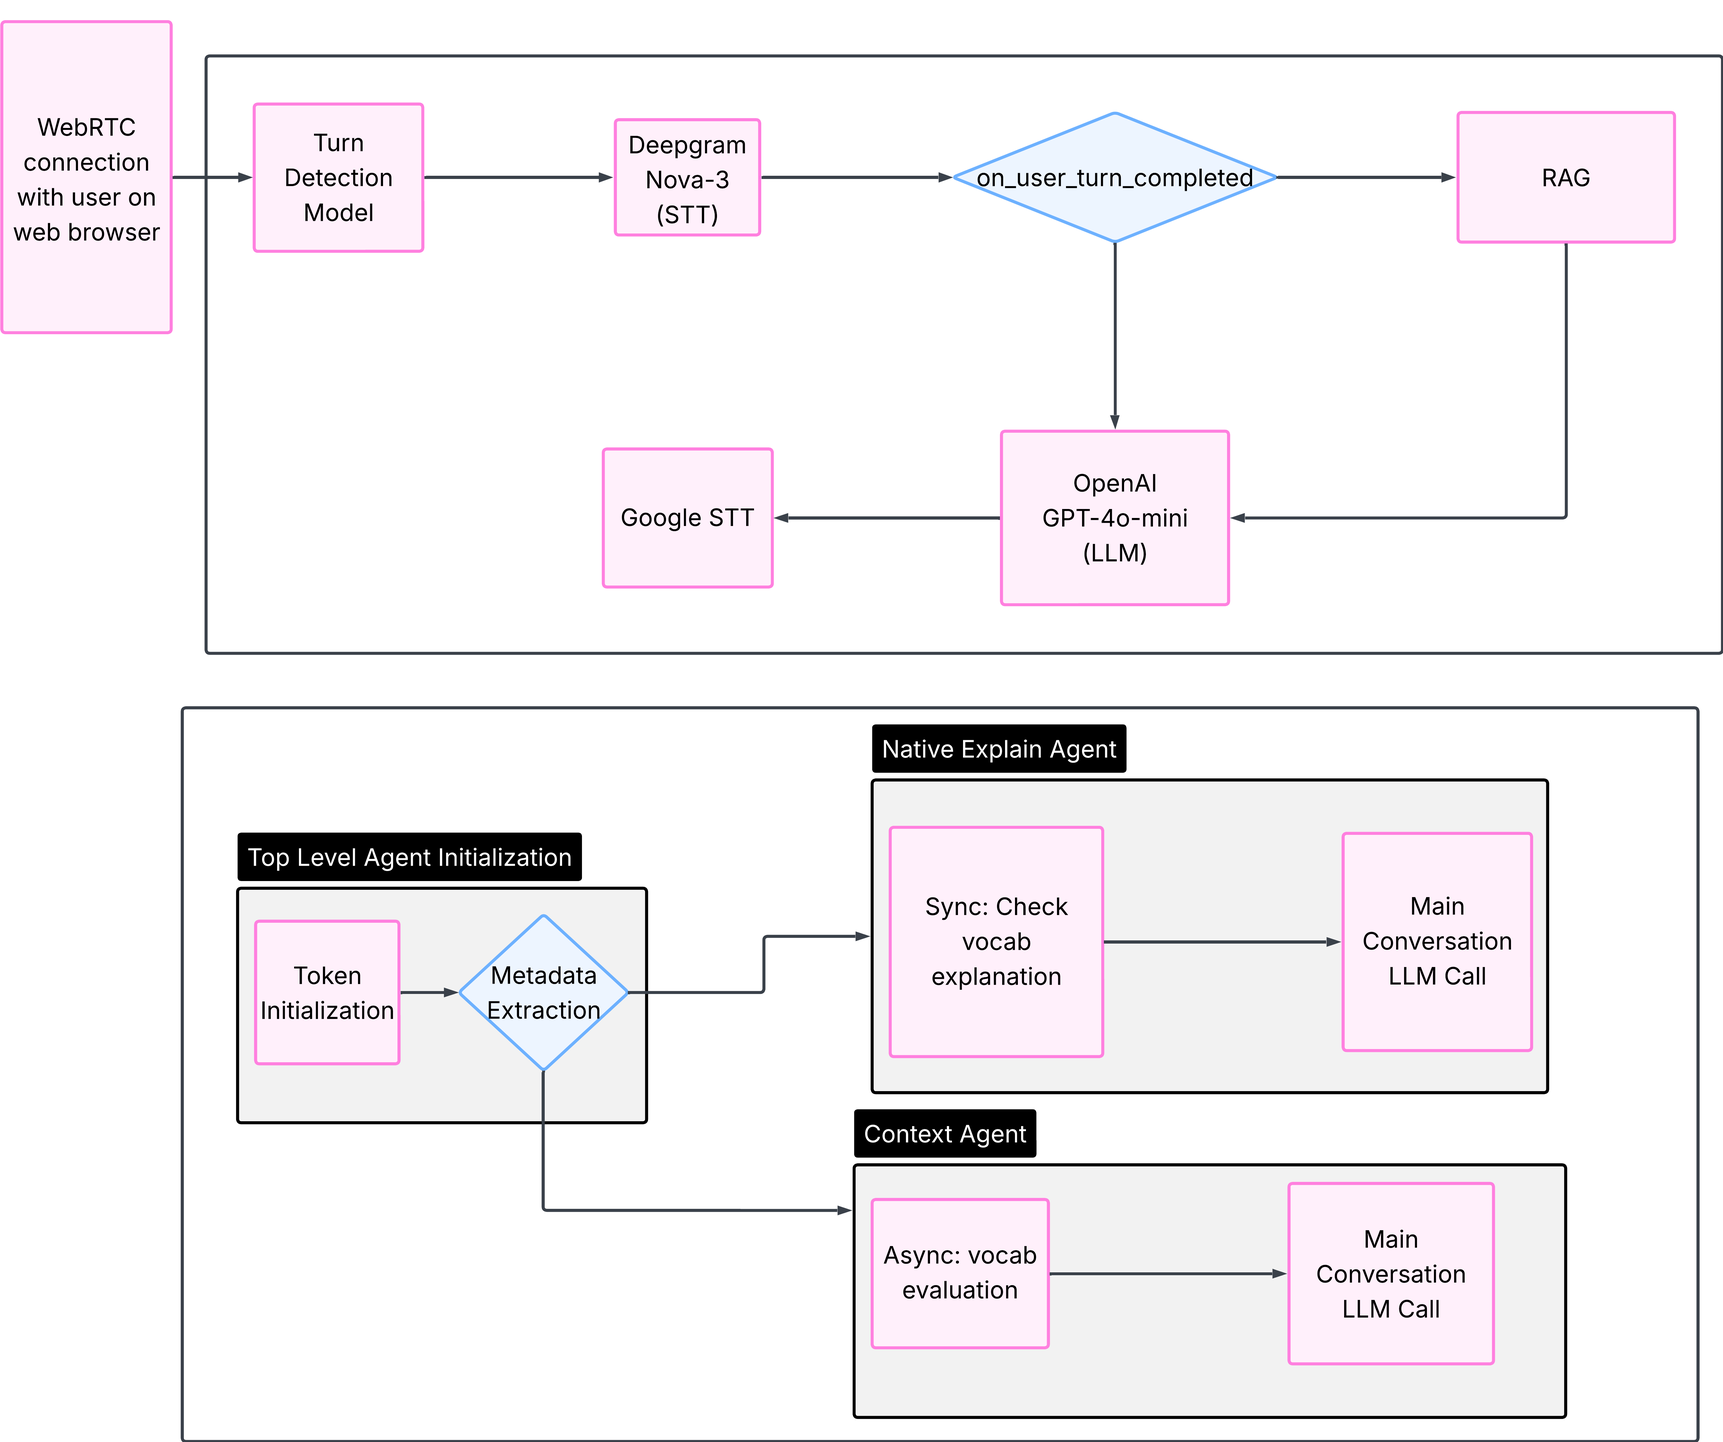
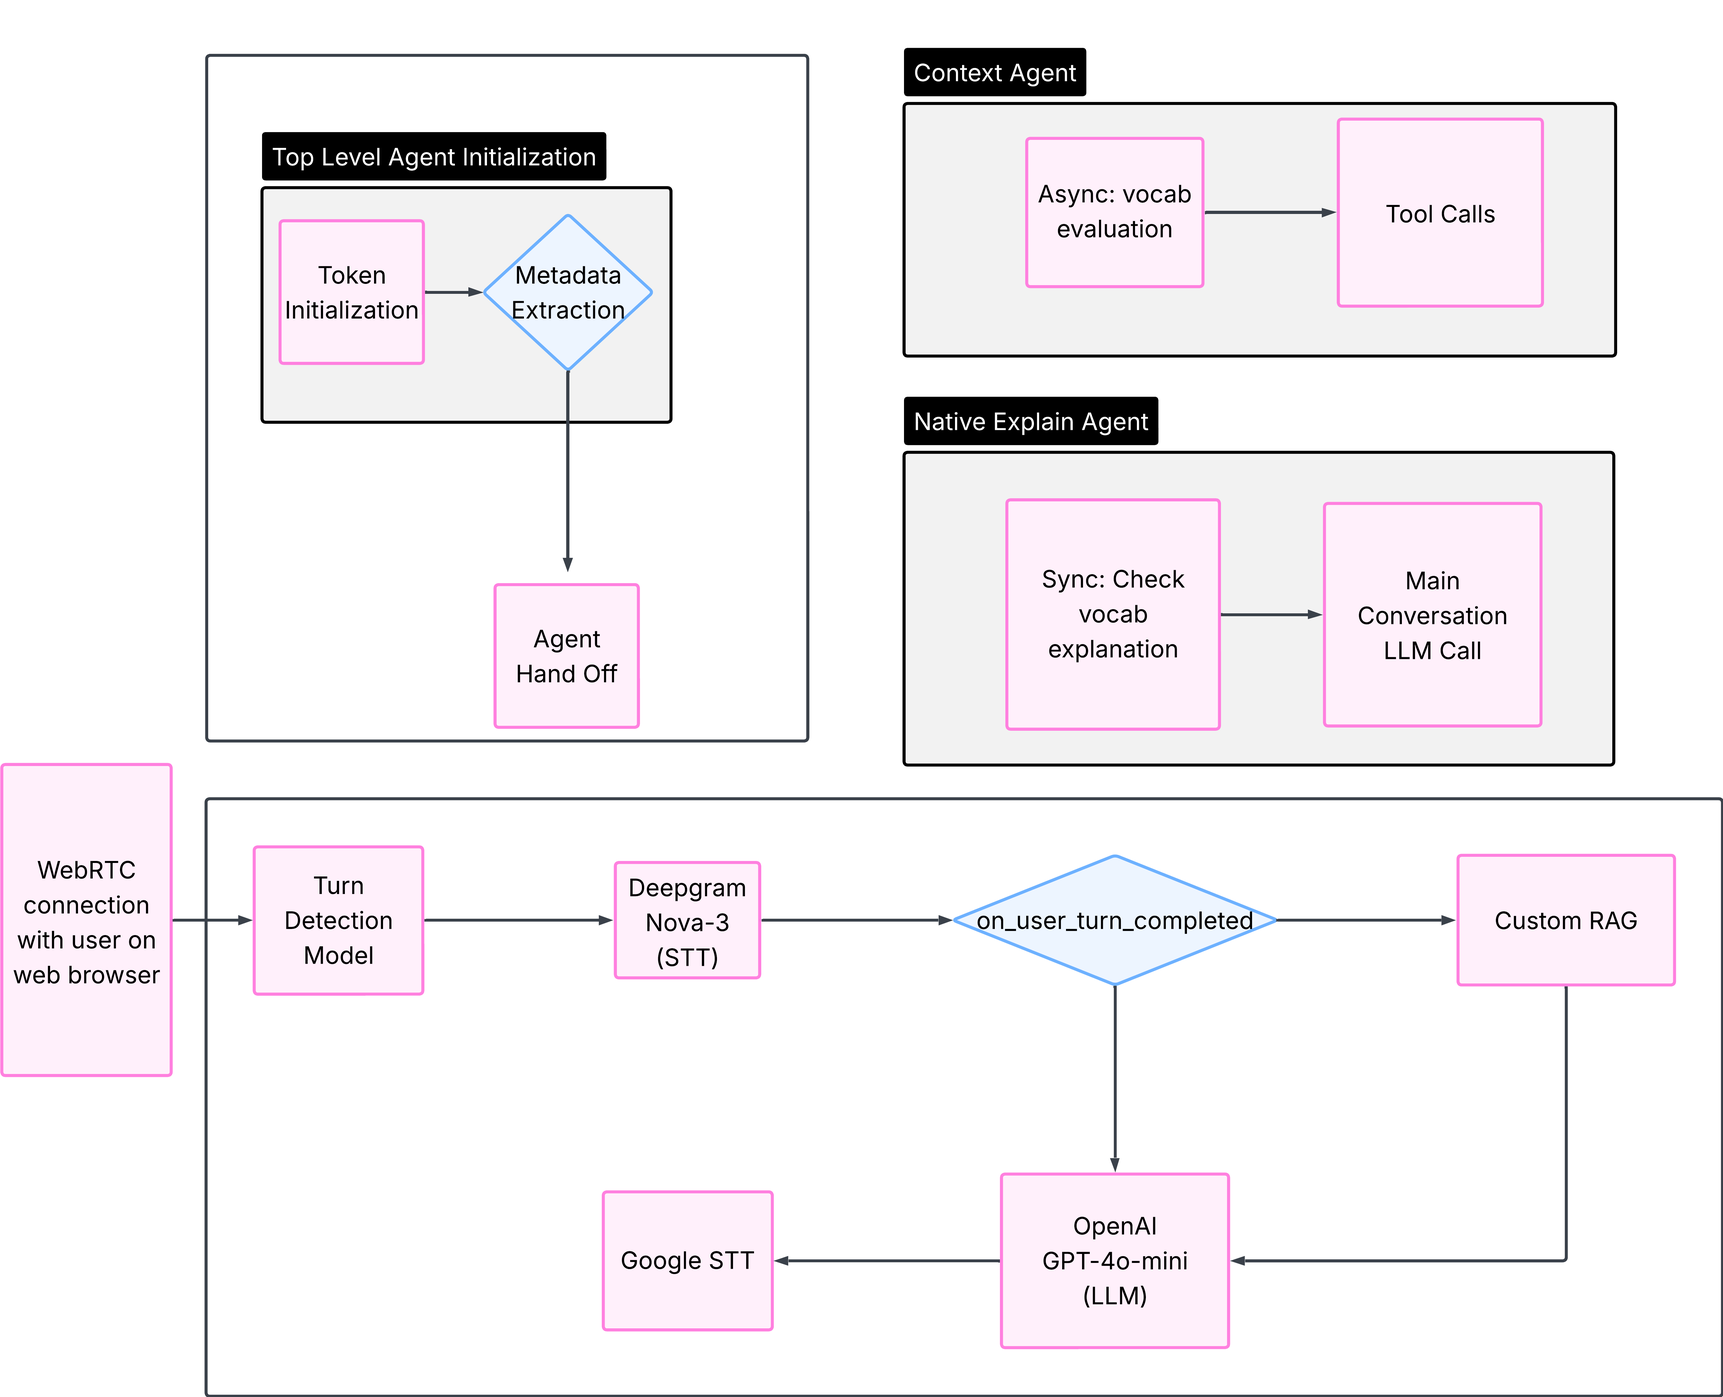
wip

diff --git a/app/app/slides/page.tsx b/app/app/slides/page.tsx
@@ -188,7 +188,32 @@ export default function SlidesPage() {
         {/* System Architecture - Title Slide */}
         <section data-background-gradient="linear-gradient(135deg, hsl(280, 65%, 45%) 0%, hsl(200, 85%, 45%) 100%)">
           <h2 style={{fontSize: '4rem', fontWeight: 'bold', color: 'white', textShadow: '2px 2px 4px rgba(0,0,0,0.8)', marginBottom: '2rem'}}>System Architecture</h2>
-          <p style={{fontSize: '1.5rem', color: 'white', textShadow: '1px 1px 2px rgba(0,0,0,0.6)'}}>Technical Deep Dive into VoiceCard AI</p>
+          <p style={{fontSize: '1.5rem', color: 'white', textShadow: '1px 1px 2px rgba(0,0,0,0.6)'}}>Technical Deep Dive into VoiceCard</p>
+        </section>
+
+        {/* Agent Architecture */}
+        <section>
+          <h2 style={{fontSize: '3rem', fontWeight: 'bold', color: '#1e3a8a', textShadow: 'none', marginBottom: '3rem'}}>Agent Architecture</h2>
+          
+          <div style={{display: 'grid', gridTemplateColumns: '1fr 1fr', gap: '3rem', maxWidth: '1100px', margin: '0 auto', height: 'calc(100vh - 200px)', alignItems: 'center'}}>
+            <div style={{backgroundColor: '#dc2626', color: 'white', padding: '2.5rem', borderRadius: '12px', boxShadow: '0 8px 32px rgba(0,0,0,0.3)', height: '300px', display: 'flex', flexDirection: 'column'}}>
+              <h3 style={{fontSize: '1.8rem', fontWeight: 'bold', marginBottom: '2rem', color: '#fef3c7'}}>🎯 Native Explain Agent</h3>
+              <div style={{fontSize: '1.1rem', lineHeight: '1.7', flex: '1'}}>
+                <div style={{marginBottom: '0.8rem'}}>• Asks user to explain target word</div>
+                <div style={{marginBottom: '0.8rem'}}>• Records user&apos;s explanation</div>
+                <div>• Runs RAG evaluation synchronously</div>
+              </div>
+            </div>
+
+            <div style={{backgroundColor: '#0891b2', color: 'white', padding: '2.5rem', borderRadius: '12px', boxShadow: '0 8px 32px rgba(0,0,0,0.3)', height: '300px', display: 'flex', flexDirection: 'column'}}>
+              <h3 style={{fontSize: '1.8rem', fontWeight: 'bold', marginBottom: '2rem', color: '#fef3c7'}}>🔄 Context Agent</h3>
+              <div style={{fontSize: '1.1rem', lineHeight: '1.7', flex: '1'}}>
+                <div style={{marginBottom: '0.8rem'}}>• Prompts user for word usage</div>
+                <div style={{marginBottom: '0.8rem'}}>• Runs RAG evaluation asynchronously</div>
+                <div>• Continues conversation flow</div>
+              </div>
+            </div>
+          </div>
         </section>
 
         {/* Application Architecture */}
@@ -245,35 +270,6 @@ export default function SlidesPage() {
           </div>
         </section>
 
-        {/* LiveKit Architecture */}
-        <section>
-          <h2 style={{fontSize: '3rem', fontWeight: 'bold', color: '#1e3a8a', textShadow: 'none', marginBottom: '3rem'}}>LiveKit Architecture</h2>
-          
-          <div style={{display: 'grid', gridTemplateColumns: '1fr 1fr', gap: '2rem', maxWidth: '1200px', margin: '0 auto'}}>
-            <div style={{backgroundColor: '#1e40af', color: 'white', padding: '2rem', borderRadius: '12px', boxShadow: '0 8px 32px rgba(0,0,0,0.3)'}}>
-              <h3 style={{fontSize: '1.5rem', fontWeight: 'bold', marginBottom: '1.5rem', color: '#fbbf24'}}>🎙 Real-time Communication</h3>
-              <div style={{fontSize: '1.1rem', lineHeight: '1.6'}}>
-                <div style={{marginBottom: '0.5rem'}}>• WebRTC-based voice streaming</div>
-                <div style={{marginBottom: '0.5rem'}}>• Low-latency bidirectional audio</div>
-                <div style={{marginBottom: '0.5rem'}}>• Room-based session management</div>
-                <div style={{marginBottom: '0.5rem'}}>• Automatic connection recovery</div>
-                <div>• Cross-platform compatibility</div>
-              </div>
-            </div>
-
-            <div style={{backgroundColor: '#16a34a', color: 'white', padding: '2rem', borderRadius: '12px', boxShadow: '0 8px 32px rgba(0,0,0,0.3)'}}>
-              <h3 style={{fontSize: '1.5rem', fontWeight: 'bold', marginBottom: '1.5rem', color: '#fef3c7'}}>🔧 LiveKit Components</h3>
-              <div style={{fontSize: '1.1rem', lineHeight: '1.6'}}>
-                <div style={{marginBottom: '0.5rem'}}>• LiveKit Server (SFU)</div>
-                <div style={{marginBottom: '0.5rem'}}>• React SDK integration</div>
-                <div style={{marginBottom: '0.5rem'}}>• Python Agent framework</div>
-                <div style={{marginBottom: '0.5rem'}}>• Token-based authentication</div>
-                <div>• Room metadata for context</div>
-              </div>
-            </div>
-          </div>
-        </section>
-
         {/* LiveKit Flow Diagram */}
         <section>
           <h2 style={{fontSize: '3rem', fontWeight: 'bold', color: '#1e3a8a', textShadow: 'none', marginBottom: '2.5rem'}}>LiveKit Flow Diagram</h2>
@@ -297,89 +293,29 @@ export default function SlidesPage() {
           </div>
         </section>
 
-        {/* Agent Architecture */}
-        <section>
-          <h2 style={{fontSize: '3rem', fontWeight: 'bold', color: '#1e3a8a', textShadow: 'none', marginBottom: '3rem'}}>Agent Architecture</h2>
-          
-          <div style={{display: 'grid', gridTemplateColumns: '1fr 1fr', gap: '3rem', maxWidth: '1100px', margin: '0 auto', height: 'calc(100vh - 200px)', alignItems: 'center'}}>
-            <div style={{backgroundColor: '#dc2626', color: 'white', padding: '2.5rem', borderRadius: '12px', boxShadow: '0 8px 32px rgba(0,0,0,0.3)', height: '300px', display: 'flex', flexDirection: 'column'}}>
-              <h3 style={{fontSize: '1.8rem', fontWeight: 'bold', marginBottom: '2rem', color: '#fef3c7'}}>🎯 Native Explain Agent</h3>
-              <div style={{fontSize: '1.1rem', lineHeight: '1.7', flex: '1'}}>
-                <div style={{marginBottom: '0.8rem'}}>• Asks user to explain target word</div>
-                <div style={{marginBottom: '0.8rem'}}>• Records user&apos;s explanation</div>
-                <div>• Runs RAG evaluation synchronously</div>
-              </div>
-            </div>
-
-            <div style={{backgroundColor: '#0891b2', color: 'white', padding: '2.5rem', borderRadius: '12px', boxShadow: '0 8px 32px rgba(0,0,0,0.3)', height: '300px', display: 'flex', flexDirection: 'column'}}>
-              <h3 style={{fontSize: '1.8rem', fontWeight: 'bold', marginBottom: '2rem', color: '#fef3c7'}}>🔄 Context Agent</h3>
-              <div style={{fontSize: '1.1rem', lineHeight: '1.7', flex: '1'}}>
-                <div style={{marginBottom: '0.8rem'}}>• Prompts user for word usage</div>
-                <div style={{marginBottom: '0.8rem'}}>• Runs RAG evaluation asynchronously</div>
-                <div>• Continues conversation flow</div>
-              </div>
-            </div>
-          </div>
-        </section>
-
-        {/* Agent Architecture Diagram */}
-        <section>
-          <h2 style={{fontSize: '3rem', fontWeight: 'bold', color: '#1e3a8a', textShadow: 'none', marginBottom: '3rem'}}>Agent Architecture Diagram</h2>
-        </section>
-
         {/* Comprehensive Conclusion */}
         <section data-background-gradient="linear-gradient(135deg, hsl(145, 65%, 45%) 0%, hsl(200, 85%, 45%) 100%)">
-          <h2 style={{fontSize: '3rem', fontWeight: 'bold', color: '#1e3a8a', textShadow: 'none', marginBottom: '3rem'}}>VoiceCard: The Future of L2 Spaced Repetition</h2>
+          <h2 style={{fontSize: '3rem', fontWeight: 'bold', color: 'white', textShadow: '2px 2px 4px rgba(0,0,0,0.8)', marginBottom: '3rem'}}>VoiceCard: Making Flashcards Fun Again</h2>
           
-          <div style={{display: 'grid', gridTemplateColumns: '1fr 1fr', gap: '2rem', maxWidth: '1100px', margin: '0 auto'}}>
+          <div style={{display: 'grid', gridTemplateColumns: '1fr 1fr', gap: '3rem', maxWidth: '1000px', margin: '0 auto'}}>
             
-            {/* Market Opportunity */}
-            <div style={{backgroundColor: 'rgba(30, 64, 175, 0.9)', color: 'white', padding: '2rem', borderRadius: '12px', boxShadow: '0 8px 32px rgba(0,0,0,0.4)'}}>
-              <h3 style={{fontSize: '1.5rem', fontWeight: 'bold', marginBottom: '1.5rem', color: '#fbbf24'}}>🌎 Market Opportunity</h3>
-              <div style={{fontSize: '1.1rem', lineHeight: '1.6'}}>
-                <div style={{marginBottom: '0.8rem', display: 'flex', alignItems: 'center'}}>
-                  <span style={{fontSize: '1.8rem', fontWeight: 'bold', color: '#34d399', marginRight: '0.5rem'}}>559M</span>
-                  Spanish speakers worldwide
-                </div>
-                <div style={{marginBottom: '0.8rem', display: 'flex', alignItems: 'center'}}>
-                  <span style={{fontSize: '1.8rem', fontWeight: 'bold', color: '#34d399', marginRight: '0.5rem'}}>$60B</span>
-                  language learning market
-                </div>
-                <div style={{marginBottom: '0.8rem'}}>• Nearshoring boom creating demand</div>
-                <div>• English fluency = career advancement</div>
+            {/* The SRS Problem */}
+            <div style={{backgroundColor: 'rgba(220, 38, 38, 0.9)', color: 'white', padding: '3rem', borderRadius: '12px', boxShadow: '0 8px 32px rgba(0,0,0,0.4)'}}>
+              <h3 style={{fontSize: '2rem', fontWeight: 'bold', marginBottom: '2rem', color: '#fef3c7'}}>😴 The SRS Problem</h3>
+              <div style={{fontSize: '1.3rem', lineHeight: '1.7'}}>
+                <div style={{marginBottom: '1rem'}}>• <strong>Anki, Quizlet, WaniKani:</strong> Effective systems</div>
+                <div style={{marginBottom: '1rem'}}>• Text-only flashcards feel like homework</div>
+                <div>• No speaking practice or conversation</div>
               </div>
             </div>
 
-            {/* Unique Solution */}
-            <div style={{backgroundColor: 'rgba(124, 58, 237, 0.9)', color: 'white', padding: '2rem', borderRadius: '12px', boxShadow: '0 8px 32px rgba(0,0,0,0.4)'}}>
-              <h3 style={{fontSize: '1.5rem', fontWeight: 'bold', marginBottom: '1.5rem', color: '#fbbf24'}}>🎯 Unique Solution</h3>
-              <div style={{fontSize: '1.1rem', lineHeight: '1.6'}}>
-                <div style={{marginBottom: '0.8rem'}}>• First AI voice agent for Spanish speakers</div>
-                <div style={{marginBottom: '0.8rem'}}>• Phrasal verb mastery through conversation</div>
-                <div style={{marginBottom: '0.8rem'}}>• LiveKit + GPT-4o + SRS technology</div>
-                <div>• Spanish-aware explanations & feedback</div>
-              </div>
-            </div>
-
-            {/* Competitive Advantage */}
-            <div style={{backgroundColor: 'rgba(234, 88, 12, 0.9)', color: 'white', padding: '2rem', borderRadius: '12px', boxShadow: '0 8px 32px rgba(0,0,0,0.4)'}}>
-              <h3 style={{fontSize: '1.5rem', fontWeight: 'bold', marginBottom: '1.5rem', color: '#fef3c7'}}>⚡ Competitive Edge</h3>
-              <div style={{fontSize: '1.1rem', lineHeight: '1.6'}}>
-                <div style={{marginBottom: '0.8rem'}}>• Fills gap left by Duolingo & traditional ESL</div>
-                <div style={{marginBottom: '0.8rem'}}>• Voice-first learning approach</div>
-                <div style={{marginBottom: '0.8rem'}}>• Real-time conversation practice</div>
-                <div>• Underserved but critical market segment</div>
-              </div>
-            </div>
-
-            {/* Expected Impact */}
-            <div style={{backgroundColor: 'rgba(22, 163, 74, 0.9)', color: 'white', padding: '2rem', borderRadius: '12px', boxShadow: '0 8px 32px rgba(0,0,0,0.4)'}}>
-              <h3 style={{fontSize: '1.5rem', fontWeight: 'bold', marginBottom: '1.5rem', color: '#fef3c7'}}>🚀 Expected Impact</h3>
-              <div style={{fontSize: '1.1rem', lineHeight: '1.6'}}>
-                <div style={{marginBottom: '0.8rem'}}>• 60% faster learning through voice practice</div>
-                <div style={{marginBottom: '0.8rem'}}>• Natural conversation confidence</div>
-                <div style={{marginBottom: '0.8rem'}}>• Career advancement for nearshore workers</div>
-                <div>• Scalable platform for language expansion</div>
+            {/* VoiceCard Solution */}
+            <div style={{backgroundColor: 'rgba(124, 58, 237, 0.9)', color: 'white', padding: '3rem', borderRadius: '12px', boxShadow: '0 8px 32px rgba(0,0,0,0.4)'}}>
+              <h3 style={{fontSize: '2rem', fontWeight: 'bold', marginBottom: '2rem', color: '#fbbf24'}}>🎉 VoiceCard Solution</h3>
+              <div style={{fontSize: '1.3rem', lineHeight: '1.7'}}>
+                <div style={{marginBottom: '1rem'}}>• <strong>Same SRS science,</strong> but with conversational AI</div>
+                <div style={{marginBottom: '1rem'}}>• AI voice agents make it engaging & fun</div>
+                <div>• Tailored to different learner profiles & preferences</div>
               </div>
             </div>
           </div>

diff --git a/app/presentation-script.md b/app/presentation-script.md
@@ -1,4 +1,4 @@
-# VoiceCard AI Presentation Script
+# VoiceCard Presentation Script
 
 ## Timing Guide
 - **Total Time**: 12-16 minutes
@@ -59,131 +59,7 @@ Now let me show you VoiceCard AI in action. I'm going to switch to a live screen
 - Spaced repetition algorithm
 - Progress tracking
 
-**Demo Highlights to Mention:**
-- "Notice how the AI explains in Spanish, using familiar concepts"
-- "The system adapts to Spanish-specific pronunciation patterns"  
-- "Watch how it provides immediate, contextual correction"
-- "The spaced repetition ensures long-term retention"
 
-**[RETURN TO SLIDES: 8:00]**
+**Final Message (30 seconds)**
+For Voice Card, I'm not trying to replace spaced repetition, and I'm not trying to create an all encompassing app that promoises to deliver fluency in the shortest amount of time possible. Instead I'm taking a battle tested, science based technique that millions of learners use every day to learn vocabulalry, and trying to make it more engaging with conversational AI.
 
----
-
-## [SLIDE 6: System Architecture] - Technical Overview (8:00)
-
-**Architecture Overview (30 seconds)**
-Now let's look under the hood. VoiceCard AI uses a sophisticated real-time architecture that's the future of L2 spaced repetition.
-
-**[NEXT SLIDE: 8:30]**
-
----
-
-## [SLIDE 7: Application Architecture] - Frontend & API (8:30)
-
-**Application Layer Overview (1 minute)**
-Our application architecture has two main layers. The frontend uses Next.js with React 19 and TypeScript, featuring an App Router for navigation, our Spaced Repetition System, voice card data management, progress tracking and analytics, all with a responsive UI built in Tailwind. The API layer, also in Next.js, handles token generation for LiveKit, room management endpoints, authentication middleware, generated data serving, session state management, and comprehensive error handling and logging.
-
-**[NEXT SLIDE: 9:30]**
-
----
-
-## [SLIDE 8: Application Architecture Diagram] - Visual Overview (9:30)
-
-**Diagram Walkthrough (30 seconds)**
-Here's our complete application architecture diagram showing how all the components work together - from the user interface through the API layer to our real-time communication system.
-
-**[NEXT SLIDE: 10:00]**
-
----
-
-## [SLIDE 9: LiveKit Architecture] - Real-time Communication (10:00)
-
-**LiveKit Components (1 minute)**
-LiveKit powers our real-time communication with WebRTC-based voice streaming, providing low-latency bidirectional audio, room-based session management, automatic connection recovery, and cross-platform compatibility. The components include the LiveKit Server acting as an SFU, React SDK integration, Python Agent framework, token-based authentication, and room metadata for context.
-
-**[NEXT SLIDE: 11:00]**
-
----
-
-## [SLIDE 10: LiveKit Flow Diagram] - Technical Flow (11:00)
-
-**Flow Explanation (30 seconds)**
-This diagram shows exactly how audio flows through our LiveKit architecture, from user input through our AI agents and back to natural speech output.
-
-**[NEXT SLIDE: 11:30]**
-
----
-
-## [SLIDE 11: Agent Architecture] - AI Agents (11:30)
-
-**Agent Overview (1 minute)**
-We have two specialized AI agents. The Native Explain Agent asks users to explain the target word, records their explanation, and runs RAG evaluation synchronously for immediate feedback. The Context Agent prompts users for word usage in context, runs RAG evaluation asynchronously to maintain conversation flow, and continues the natural dialogue. This dual-agent approach ensures both accuracy and conversational fluency.
-
-**[NEXT SLIDE: 12:30]**
-
----
-
-## [SLIDE 12: Agent Architecture Diagram] - Agent Flow (12:30)
-
-**Agent Diagram (30 seconds)**
-This technical diagram shows how our two agents coordinate to create seamless learning experiences.
-
-**[NEXT SLIDE: 13:00]**
-
----
-
-## [SLIDE 13: VoiceCard: The Future of L2 Spaced Repetition] - Conclusion (13:00)
-
-**Comprehensive Impact Summary (2 minutes)**
-Let me bring this all together. We have a massive market opportunity with 559 million Spanish speakers worldwide in a $60 billion language learning market. The nearshoring boom is creating unprecedented demand, and English fluency directly correlates with career advancement.
-
-Our unique solution is the first AI voice agent specifically designed for Spanish speakers, focusing on phrasal verb mastery through conversation. We're combining LiveKit real-time communication, GPT-4o intelligence, and spaced repetition science into a powerful learning platform.
-
-Our competitive advantage is clear - we're filling the gap left by Duolingo and traditional ESL with our voice-first learning approach and real-time conversation practice, targeting an underserved but critical market segment.
-
-The expected impact is transformative: 60% faster learning through voice practice, natural conversation confidence, career advancement for nearshore workers, and a scalable platform ready for language expansion.
-
-**Closing (30 seconds)**
-VoiceCard AI represents the future of language learning - where AI agents become conversation partners, where spaced repetition meets real-time voice interaction, and where Spanish speakers finally have a solution built specifically for their unique challenges.
-
-Thank you. I'm happy to take questions.
-
-**[END: 15:00]**
-
----
-
-## Presentation Tips
-
-### Timing Cues
-- Use your phone or watch to track timing
-- If running long, compress the infrastructure section
-- If running short, add more demo examples
-
-### Slide Transitions
-- Use presenter view to see notes
-- Arrow keys or space bar to advance
-- 'B' key to black out screen during demo
-
-### Demo Backup Plan
-- Have screenshots ready in case of technical issues
-- Practice demo flow multiple times
-- Have test phrasal verb examples prepared
-
-### Q&A Preparation
-**Likely Questions:**
-- "How accurate is the speech recognition for Spanish accents?"
-- "What's your user acquisition strategy?"
-- "How do you plan to monetize?"
-- "What about competition from Duolingo or Babbel?"
-- "How do you measure learning effectiveness?"
-
-**Key Statistics to Remember:**
-- 559M Spanish speakers worldwide
-- 41M Spanish speakers in US
-- 2000+ common phrasal verbs
-- 80% of conversation uses phrasal verbs
-- 15x longer to master than regular verbs
-- 60% learning time reduction
-- 85% accuracy improvement
-- 23% salary correlation
-- $60B market size by 2027
